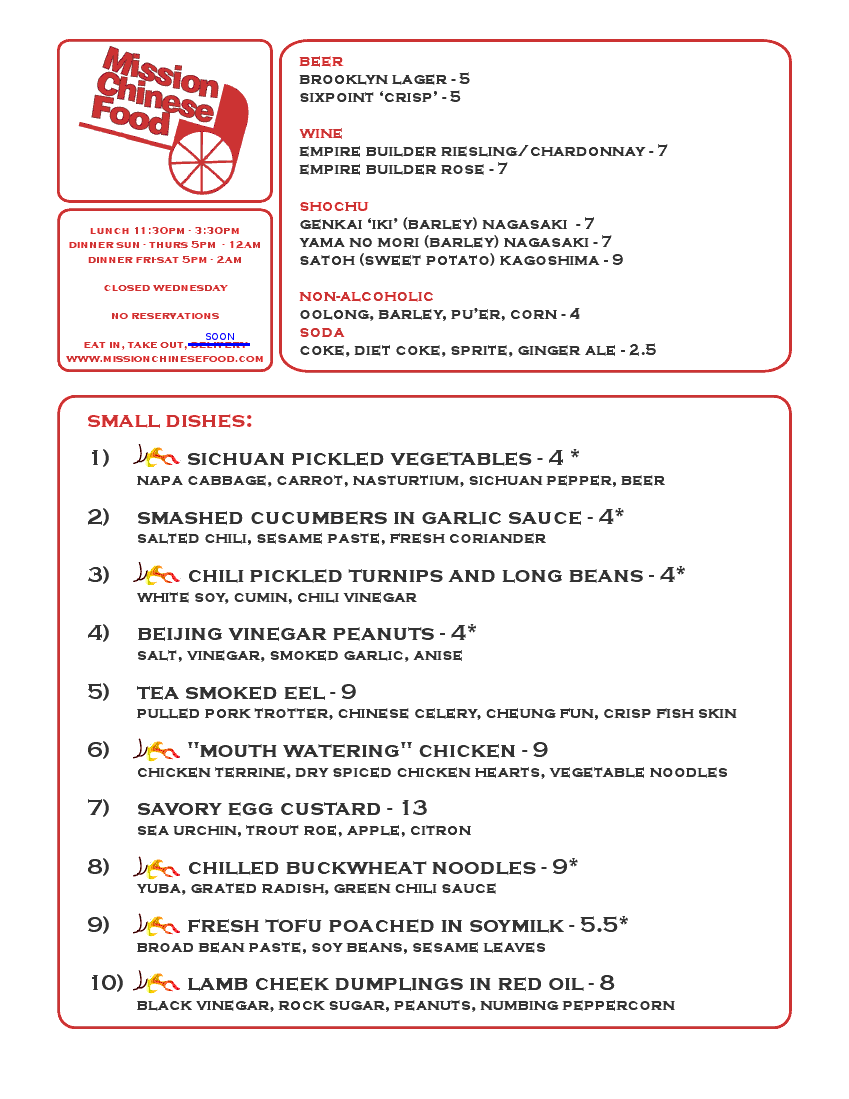
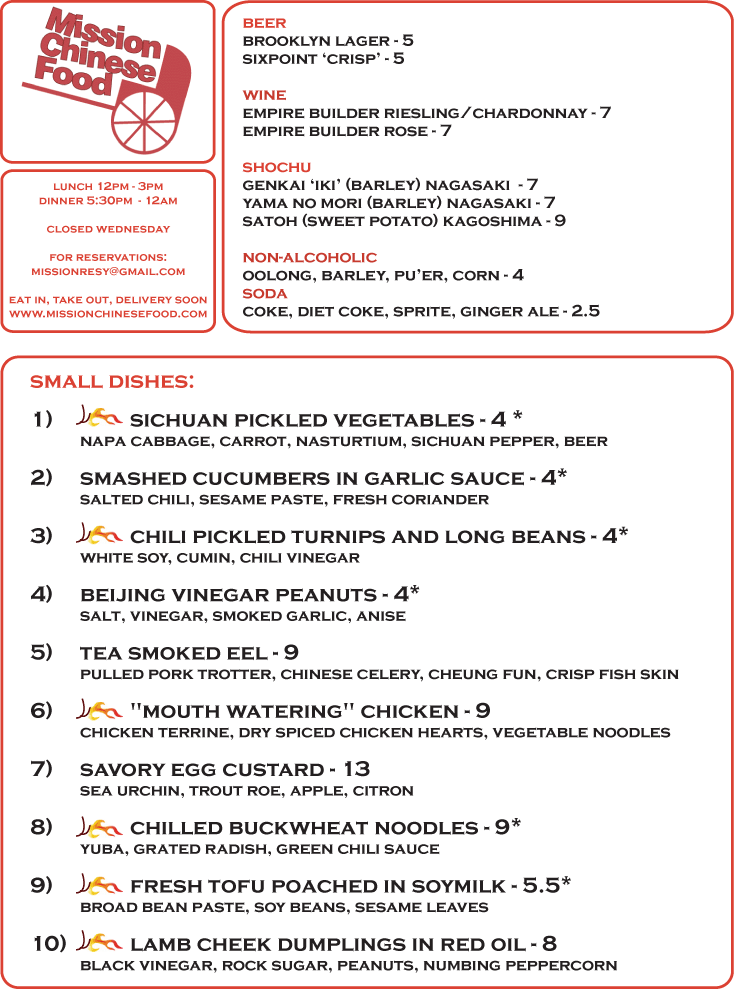
Update hours, add reservationinfo for NY menu

diff --git a/ny/index.html b/ny/index.html
@@ -13,7 +13,11 @@
 <style>
 
 body { position:relative; padding:0; margin:0; }
-#menu { margin:0 auto; width:881px; }
+#menu {
+	margin:0 auto;
+	text-align: center;
+	width:881px;
+}
 #ninja { 
 	position:absolute; 
 	background:transparent url('/static/img/ninja.png') no-repeat 0 0;
@@ -42,7 +46,7 @@ body { position:relative; padding:0; margin:0; }
 <body>
 
 <div id="menu">
-	<img src="/static/img/nymenu1.png" alt="Menu"  width="849" height="1099" />
+	<img src="/static/img/nymenu1.png" alt="Menu"  width="735" height="989" />
 	<img src="/static/img/nymenu2.png" alt="Menu"  width="849" height="1099" />
 	<p id="footer">154 ORCHARD ST NY NY 10002 BETWEEN RIVINGTON &amp; STANTON ST</p>
 </div>
